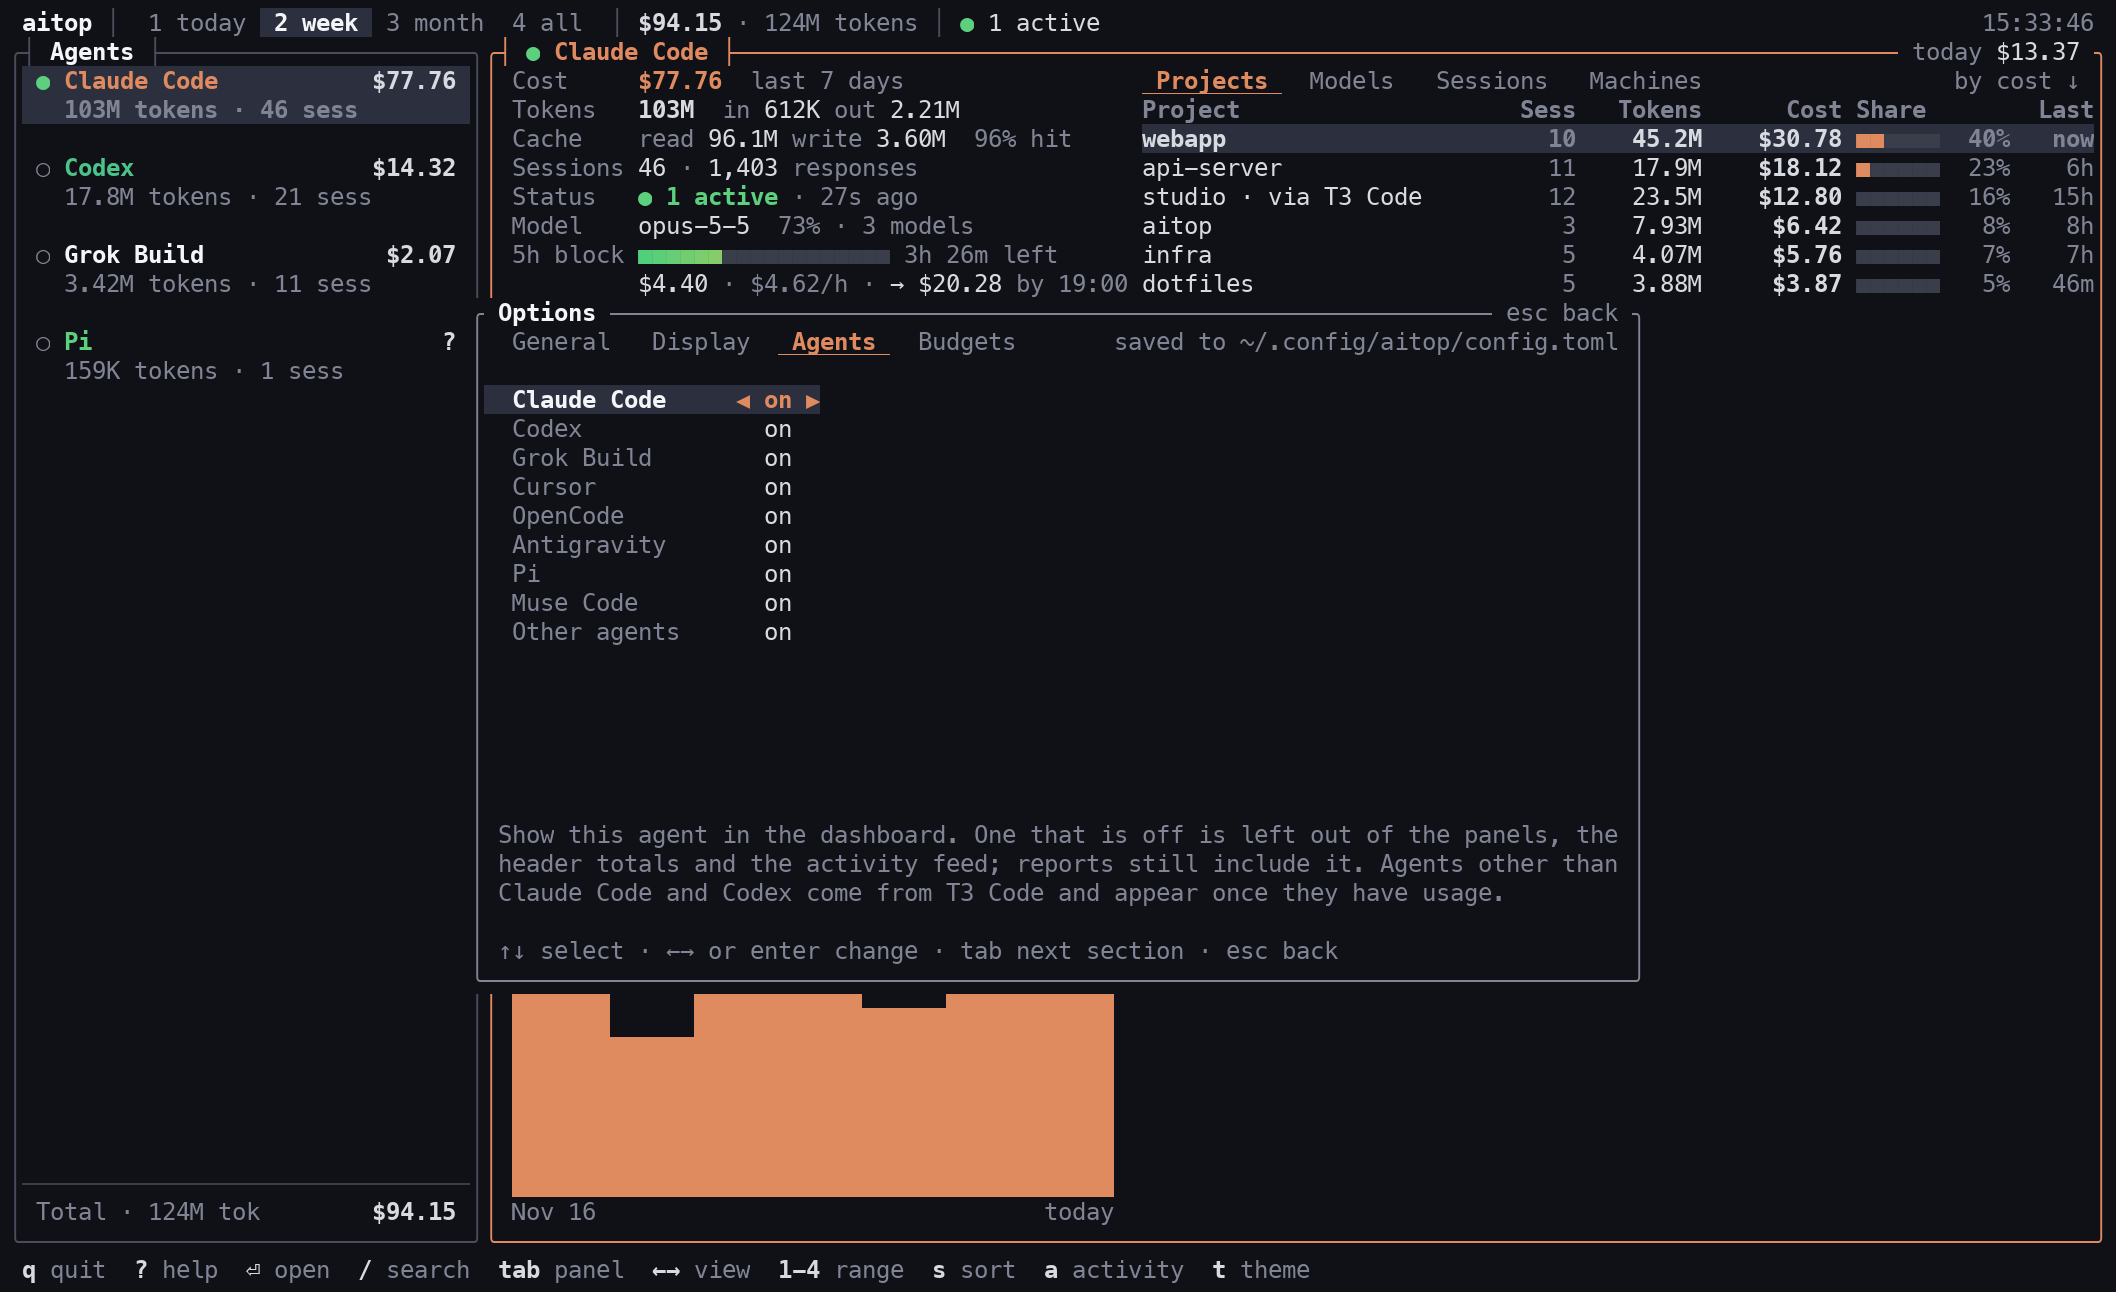
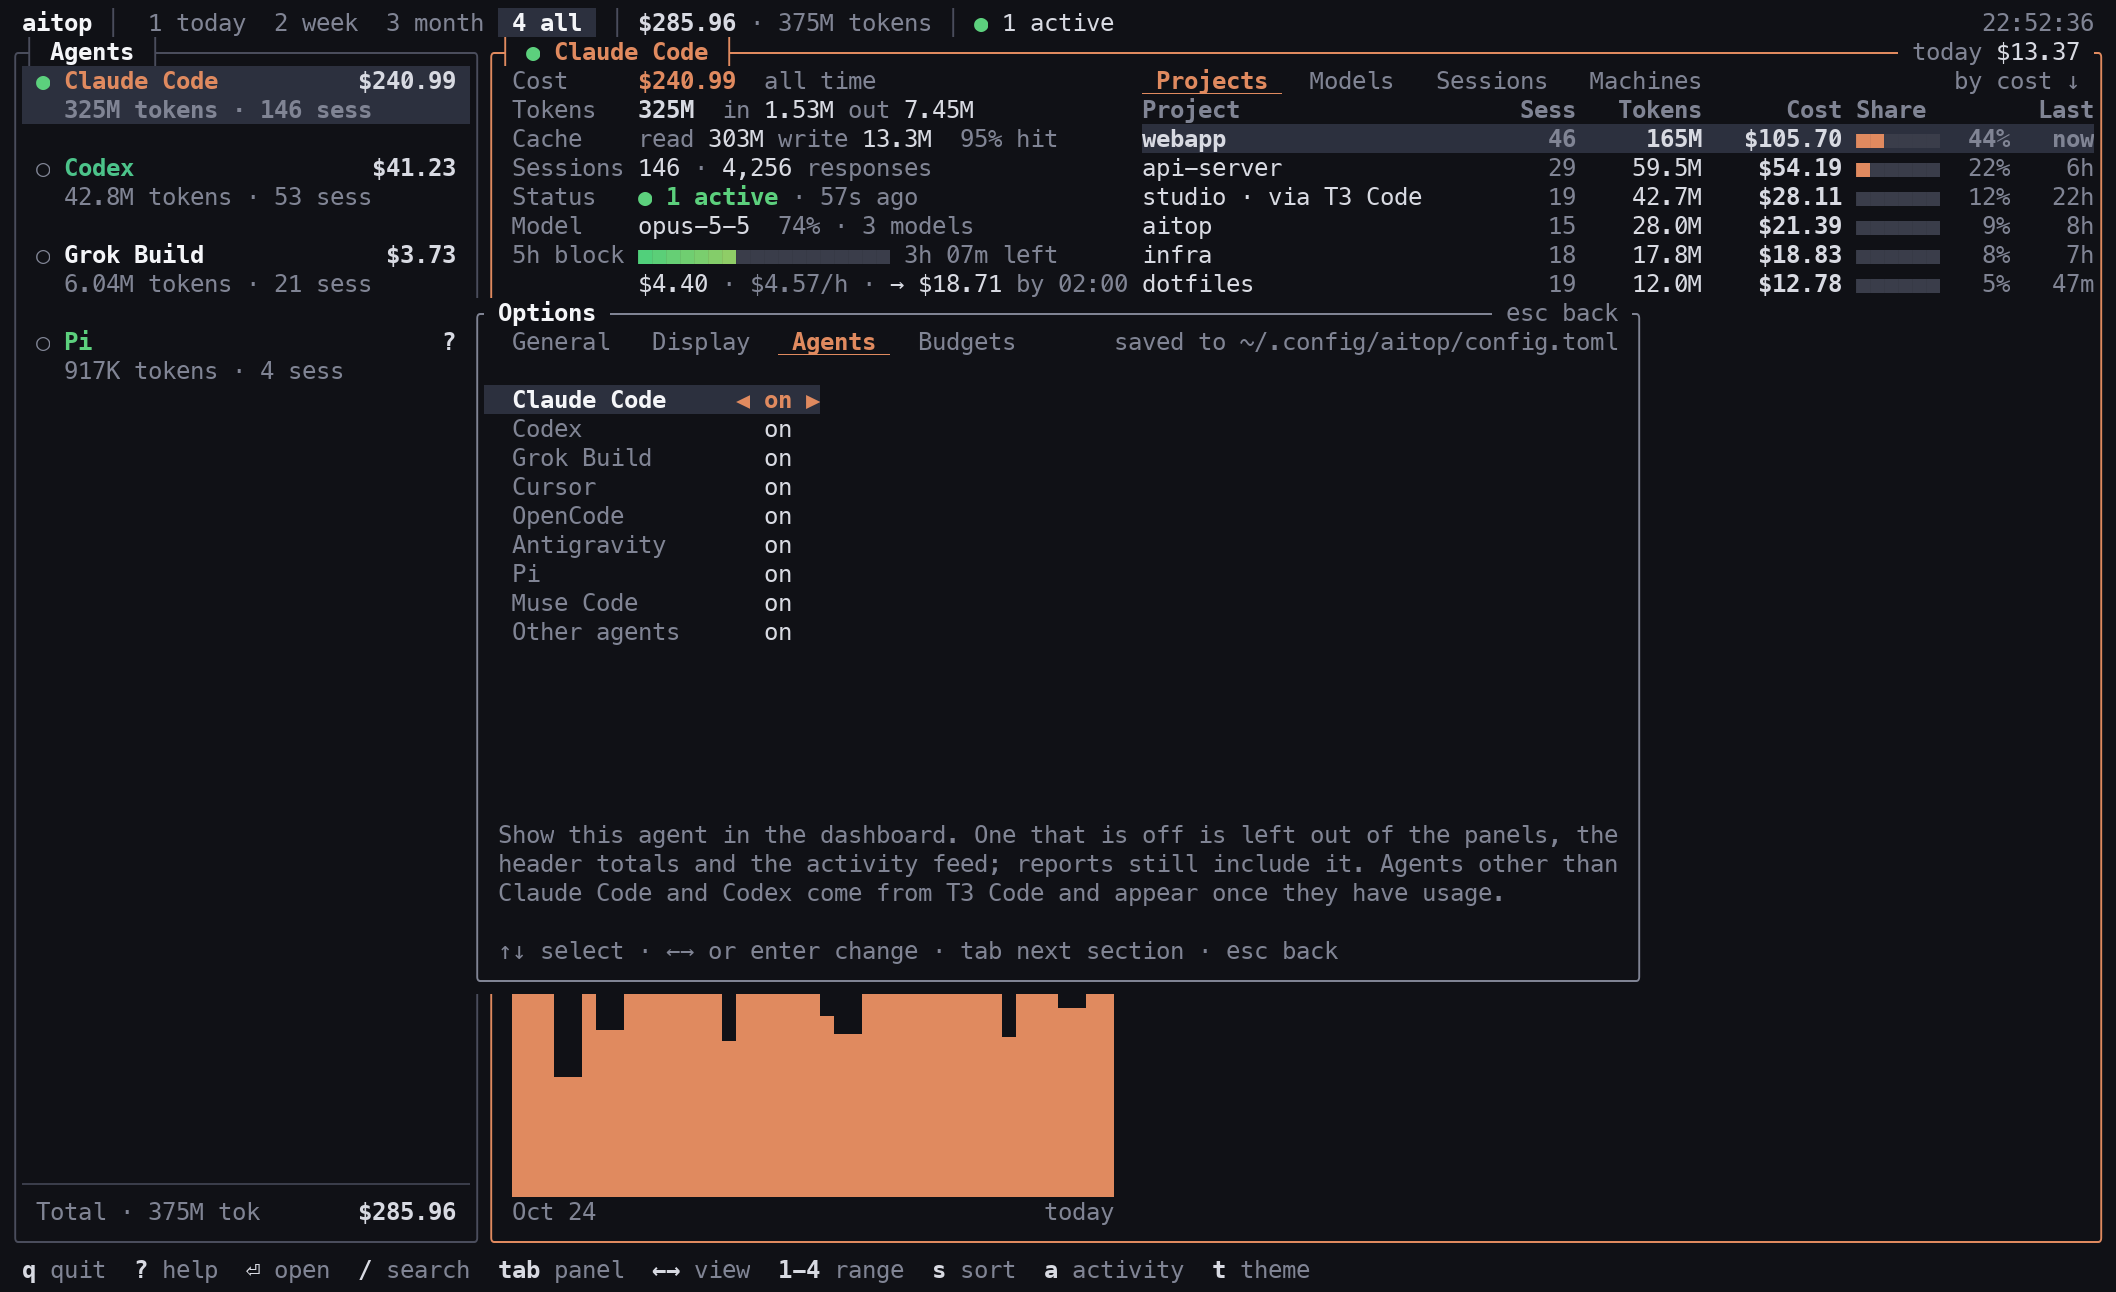
Docs: screenshots of both layouts, machines, options and a theme
All five are of demo data at the all-time range. scripts/make-screenshots.py
makes them again: it runs aitop in a pseudo-terminal against the demo home
and draws the terminal's cells.

diff --git a/scripts/make-screenshots.py b/scripts/make-screenshots.py
@@ -1,0 +1,123 @@
+#!/usr/bin/env python3
+"""Make the README's screenshots (docs/*.png) from demo data.
+
+    python3 scripts/make-demo-home.py /tmp/aitop-demo
+    cargo build --release
+    python3 scripts/make-screenshots.py
+
+aitop runs in a pseudo-terminal against the demo home, so nothing real is
+shown; the terminal's cells are kept with pyte and drawn with Pillow
+(`pip install pyte pillow`). The font is macOS's Menlo; set FONT for another.
+"""
+import fcntl
+import os
+import pty
+import select
+import signal
+import struct
+import termios
+import time
+
+import pyte
+from PIL import Image, ImageDraw, ImageFont
+
+signal.alarm(150)  # give up rather than hang
+
+ROOT = os.path.dirname(os.path.dirname(os.path.abspath(__file__)))
+DEMO = '/tmp/aitop-demo'
+COLS, ROWS = 150, 44
+FONT = os.environ.get('FONT', '/System/Library/Fonts/Menlo.ttc')
+fonts = {False: ImageFont.truetype(FONT, 24, index=0), True: ImageFont.truetype(FONT, 24, index=1)}
+W, H, MARGIN = 14, 29, 8
+PALETTE = {'default': '#101116', 'black': '#000000', 'white': '#d8dae2'}
+
+
+def color(s):
+    return PALETTE.get(s, '#' + s)
+
+
+def render(screen, name):
+    im = Image.new('RGB', (COLS * W + 2 * MARGIN, ROWS * H + 2 * MARGIN), color('default'))
+    for y in range(ROWS):
+        for x in range(COLS):
+            c = screen.buffer[y][x]
+            fg, bg = color(c.fg), color(c.bg)
+            if c.reverse:
+                fg, bg = bg, fg
+            cell = Image.new('RGB', (W, H), bg)
+            d = ImageDraw.Draw(cell)
+            if len(c.data) == 1 and 0x2581 <= ord(c.data) <= 0x2588:
+                n = ord(c.data) - 0x2580
+                d.rectangle((0, round(H * (8 - n) / 8), W - 1, H - 1), fill=fg)
+            else:
+                d.text((0, 0), c.data, font=fonts[c.bold], fill=fg)
+            if c.underscore:
+                d.line((0, H - 2, W, H - 2), fill=fg)
+            im.paste(cell, (MARGIN + x * W, MARGIN + y * H))
+    path = f'{ROOT}/docs/{name}.png'
+    im.save(path, optimize=True)
+    print(name, im.size, os.path.getsize(path), flush=True)
+    return '\n'.join(screen.display)
+
+
+def session(args, steps):
+    """Run aitop with `args`; `steps` are (keys, seconds, name-or-None)."""
+    screen = pyte.Screen(COLS, ROWS)
+    stream = pyte.ByteStream(screen)
+    pid, fd = pty.fork()
+    if pid == 0:
+        os.chdir(DEMO)
+        # Nothing of the real machine: its home, its T3 Code, its environment.
+        os.execv('/usr/bin/env', ['env', '-i', f'HOME={DEMO}', f'T3CODE_HOME={DEMO}/.t3', 'PATH=/usr/bin:/bin',
+                                  'TERM=xterm-256color', 'COLORTERM=truecolor', ROOT + '/target/release/aitop', *args])
+    fcntl.ioctl(fd, termios.TIOCSWINSZ, struct.pack('HHHH', ROWS, COLS, 0, 0))
+    os.set_blocking(fd, False)
+
+    def read_for(seconds):
+        end = time.monotonic() + seconds
+        while time.monotonic() < end:
+            ready, _, _ = select.select([fd], [], [], min(.1, max(0, end - time.monotonic())))
+            if ready:
+                try:
+                    data = os.read(fd, 65536)
+                except BlockingIOError:
+                    continue
+                except OSError:
+                    break
+                if not data:
+                    break
+                stream.feed(data)
+    texts = {}
+    try:
+        for keys, seconds, name in steps:
+            if os.waitpid(pid, os.WNOHANG) != (0, 0):
+                raise SystemExit(f'aitop exited early, before {name or keys!r}')
+            if keys:
+                os.write(fd, keys)
+            read_for(seconds)
+            if name:
+                texts[name] = render(screen, name)
+    finally:
+        # Close our end first: a program exiting with unread output on its
+        # terminal waits for it to be read, and would never be reaped.
+        os.close(fd)
+        try:
+            if os.waitpid(pid, os.WNOHANG) == (0, 0):
+                os.kill(pid, signal.SIGKILL)
+                os.waitpid(pid, 0)
+        except ChildProcessError:
+            pass
+    return texts
+
+
+session(['--range', 'all'], [
+    (b'', 4, 'screenshot'),            # list layout, Claude Code selected
+    (b'v', 4, 'stacked'),              # stacked layout (the footer note clears in 3 s)
+    (b'v', 3.5, None),                 # back to the list
+    (b'M', .4, None), (b'a', 1.5, 'machines'),   # Machines tab, activity feed open
+    (b'a', .3, None), (b'p', .3, None),
+    (b'o', .4, None), (b'\t\t', 1.5, 'options'),  # Options on the Agents section
+])
+session(['--range', 'all', '--theme', 'tokyo-night'], [
+    (b'', 4, None), (b'\t', .5, None), (b'm', 1.5, 'theme'),   # another theme: Codex, its Models tab
+])

diff --git a/README.md b/README.md
@@ -4,9 +4,19 @@
 
 Inspired by [btop](https://github.com/aristocratos/btop).
 
-![aitop](docs/screenshot.png)
+![aitop, list layout: the agents on the left, the selected one in full](docs/screenshot.png)
 
-<sub>The list layout. Screenshots are of `scripts/make-demo-home.py` demo data.</sub>
+<sub>The list layout: every agent on the left, the selected one in full.</sub>
+
+![aitop, stacked layout: one panel per agent](docs/stacked.png)
+
+<sub>The stacked layout: one panel per agent. `v` switches between the two.</sub>
+
+![aitop with the Machines tab and the activity feed](docs/machines.png)
+
+<sub>Usage per machine, and the live activity feed.</sub>
+
+<sub>All screenshots are of demo data (`scripts/make-demo-home.py`), made with `scripts/make-screenshots.py`.</sub>
 
 ## Features
 
@@ -213,8 +223,6 @@ cache_read = 0.1
 
 ### Layout and agents
 
-![The stacked layout](docs/stacked.png)
-
 - **Two layouts.** `list` puts every agent in a list on the left, with its cost, and shows the selected one in full beside it; `tab` picks the agent. `stacked` gives each agent a full-width panel, top to bottom. The default, `auto`, is stacked for one or two agents and the list for more. `v` switches while aitop runs; Options → Display → Layout (or `layout = "list"`) keeps your choice.
 - **Choose which agents are shown.** Options → Agents has an on/off switch for each one, saved as `[agents]` in the config (`pi = false`). An agent that is off is left out of the panels, the header totals and the activity feed; `aitop report` still includes it.
 
@@ -225,6 +233,8 @@ cache_read = 0.1
 - **Boxes:** `rounded`, `plain`, `double` or `thick` borders.
 
 ### Themes
+
+![aitop in the Tokyo Night theme, showing Codex](docs/theme.png)
 
 `aitop themes` lists the themes with a colour swatch; pick one with `--theme NAME`, `theme = "NAME"` in the config, or cycle with `t` in the dashboard. Built in: `aitop` (default), `catppuccin`, `dracula`, `gruvbox`, `nord`, `solarized-light`, `terminal` (only your terminal's 16 ANSI colours, so it follows your terminal's scheme) and `tokyo-night`.
 
@@ -300,6 +310,7 @@ cargo test
 cargo clippy --all-targets -- -D warnings
 python3 scripts/make-demo-home.py /tmp/aitop-demo
 HOME=/tmp/aitop-demo T3CODE_HOME=/tmp/aitop-demo/.t3 cargo run
+python3 scripts/make-screenshots.py     # redo docs/*.png (needs pyte and pillow)
 ```
 
 The demo home has logs for Claude Code and Codex, and a history file with what T3 Code would have reported (two other agents and a linked machine), so every panel and layout can be tried without real data. `T3CODE_HOME` keeps a real T3 Code on your machine out of it.
